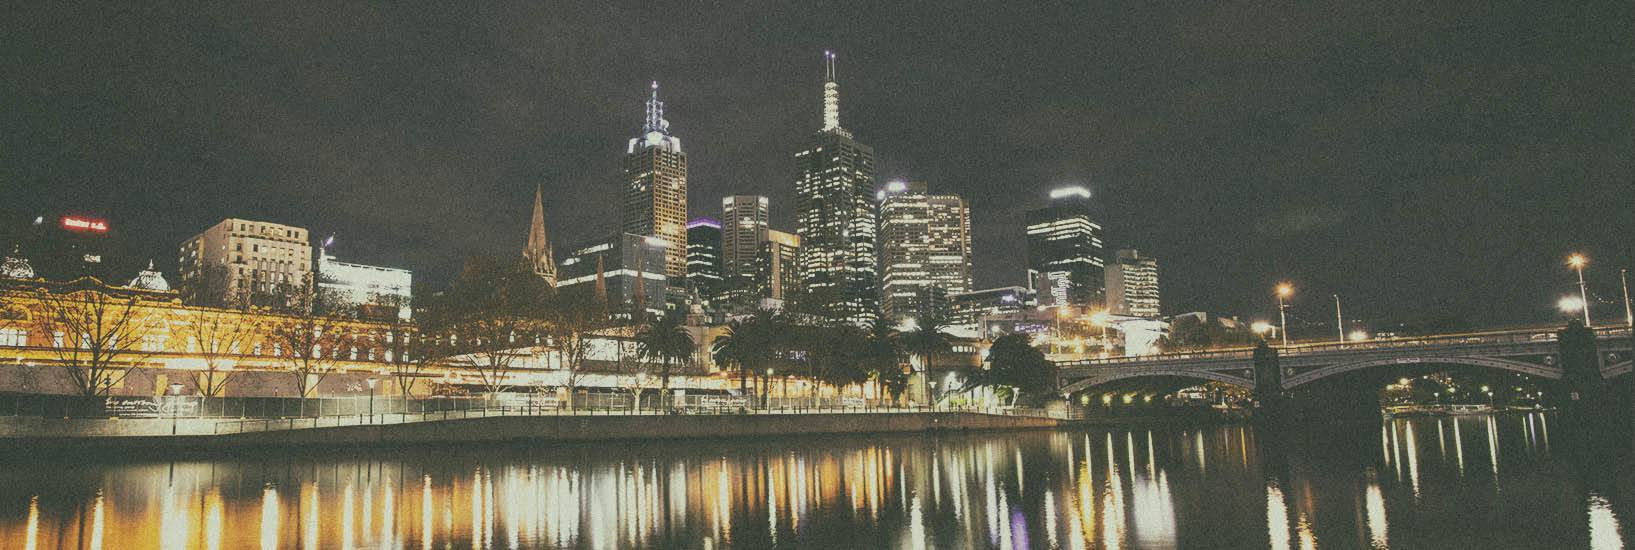
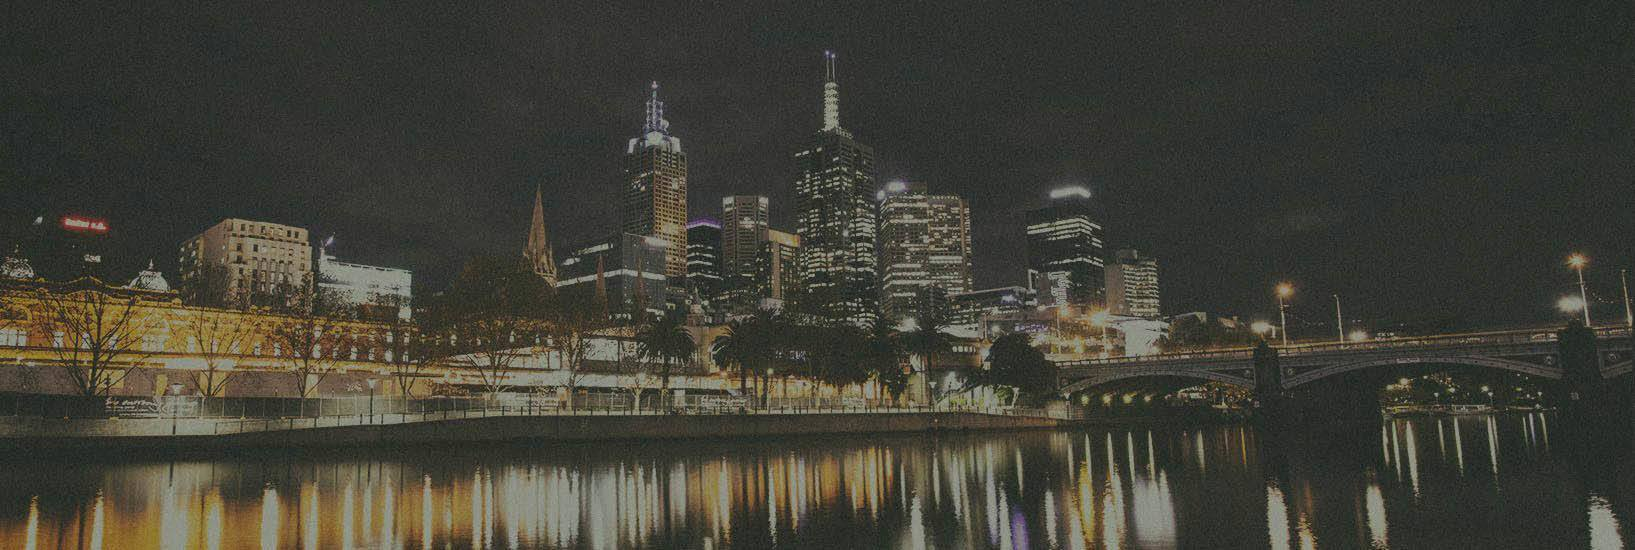
Fixed Contact Div

diff --git a/css/main.css b/css/main.css
@@ -208,7 +208,6 @@ body {
 	top: 0px;
 	width: 100%;
 	position:fixed;
-	background-color: rgba(0,0,0,.3);
 }
 .accounts {
 	text-align: center;
@@ -271,92 +270,6 @@ section .accounts a.linkedin {
 	background-color: #FFF;
 	padding-bottom: 1em;
 }
-
-@media only screen and (min-width: 768px) {
-	.visitSiteMobile {
-		display: none;
-	}
-}
-
-@media only screen and (max-width: 768px) {
-	
-	.responsive-col-left h2 {
-		font-size: 1.4375em;
-		font-weight: normal;
-	}
-	.responsive-col-right {
-		padding-left: 0;
-		padding-top: 2em;
-		width: 90%;
-	}
-	.responsive-col-left {
-		padding-left: 0px;
-		width: 100%;
-	}
-	.responsive-col-left {
-		padding-left: 0px;
-	}
-	.visitSiteDesktop {
-		display: none;
-	}
-	.visitSiteMobile {
-		padding-top: 2em;
-		display: block;
-	}
-}
-
-@media only screen and (max-width: 1079px) {
-	.workContent {
-		width: 90%;
-	}
-	.responsive-col-left .responsive-col-right {
-		padding-left: 60px;
-	}
-	
-	.contactDetailsDesktop
-	{
-		display:none;	
-	}
-	
-	.contactFormDesktop
-	{
-		width: 100%;
-		padding:0;
-	}
-	#footer
-	{
-		display:none;	
-	}
-	.main
-	{
-		margin-bottom:0;	
-	}
-}
-/* eat up all the width when used on mobile 
-@media screen and (max-width: 800px) {
-	.responsive-col-left
-{
-	width: 100%;
-}
-
-.responsive-col-right
-{
-	width: 100%;
-}
-}
-
-/* To make the height adjust automatically on mobile view
-@media screen and (min-width: 800px) {
-	.responsive-col-left
-{
-	height: 50vh;
-}
-
-.responsive-col-right
-{
-	height: 50vh;
-}
-} */
 
 .visitSiteDesktop {
 	padding-top: .8em;
@@ -449,3 +362,85 @@ div.button {
 	border:none;
 	padding:0;
 }
+
+@media only screen and (min-width: 768px) {
+	.visitSiteMobile {
+		display: none;
+	}
+}
+
+@media only screen and (max-width: 768px) {
+	
+	.responsive-col-left h2 {
+		font-size: 1.4375em;
+		font-weight: normal;
+	}
+	.responsive-col-right {
+		padding-left: 0;
+		padding-top: 2em;
+		width: 90%;
+	}
+	.responsive-col-left {
+		padding-left: 0px;
+		width: 100%;
+	}
+	.responsive-col-left {
+		padding-left: 0px;
+	}
+	.visitSiteDesktop {
+		display: none;
+	}
+	.visitSiteMobile {
+		padding-top: 2em;
+		display: block;
+	}
+	
+	#footer form {
+		width: 100%;	
+	}
+}
+
+@media only screen and (max-width: 1079px) {
+	.workContent {
+		width: 90%;
+	}
+	.responsive-col-left .responsive-col-right {
+		padding-left: 60px;
+	}
+	
+	.contactDetailsDesktop
+	{
+		display:none;	
+	}
+	
+	.contactFormDesktop
+	{
+		width: 100%;
+		padding:0;
+	}
+}
+/* eat up all the width when used on mobile 
+@media screen and (max-width: 800px) {
+	.responsive-col-left
+{
+	width: 100%;
+}
+
+.responsive-col-right
+{
+	width: 100%;
+}
+}
+
+/* To make the height adjust automatically on mobile view
+@media screen and (min-width: 800px) {
+	.responsive-col-left
+{
+	height: 50vh;
+}
+
+.responsive-col-right
+{
+	height: 50vh;
+}
+} */

diff --git a/index.html b/index.html
@@ -24,18 +24,18 @@
 </head>
 
 <body>
-    <section class="intro" id="top">
+    <header class="intro" id="top">
         <!--<nav class="desktop" id="cl-effect-14" class="container cl-effect-14">-->
         <!-- Parallax Top -->
 
         <div class="harvinBlock fadeIn">
             <h2 class="harvinName">Harvin Chan</h2><span class="hero__snippet">Web Developer</span>
 
-            <div class="accounts">
-                <a class="linkedin" data-username="261245078" href="http://linkedin.com/in/harvinchan">LinkedIn</a>
+            <div class="accounts hi-icon-effect-2 hi-icon-effect-2a">
+                <a class="fa-linkedin" data-username="261245078" href="http://linkedin.com/in/harvinchan">LinkedIn</a>
             </div>
         </div>
-    </section>
+    </header>
 
     <nav class="bt-menu" id="bt-menu">
         <a class="bt-menu-trigger" href="#"><span>Menu</span></a> <!--<h1 class="logo">Harvin Chan</h1>-->
@@ -193,7 +193,7 @@
 
         
 		</div>
-        <section id="footer">
+        <section id="footer" style="display:none;">
         <div class="container">
         <div class="workContent contentContact">
                 <!--<div class="workColumn">-->
@@ -212,7 +212,8 @@
                 </div>
 
                 <div class="responsive-col-right contactFormDesktop">
-                    <form action="actions/email.php" method="POST">
+                <!--<form action="actions/email.php" method="POST">-->
+                    <form action="#" method="POST">
                         <p>
         
                             <label for="name">Name:</label>
@@ -259,6 +260,27 @@
             $('.fade').bxSlider({
                 
             });
+			
+			if($(window).width() > 640)
+	{
+
+		var headerHeight = $('header').height();
+
+		$(document).scroll(function() {
+			var pos = $(document).scrollTop();
+
+			$('#footer').css('display', ((pos > headerHeight) ? 'block' : 'none'));
+
+				var parallax = parseInt(pos * -0.3) + 'px';
+				var rgba		 = (pos / headerHeight) * 0.4;
+
+				$('.harvinBlock').css('margin-top', parallax);
+				$('header').css('background', 'rgba(0,0,0,' + rgba);
+
+			
+		});
+	
+	}
             
             
         });

diff --git a/css/style.css b/css/style.css
@@ -153,6 +153,39 @@ iframe {
 	top: 0%;
 	opacity: 1;
 }
+
+/* Effect 2 */
+.hi-icon-effect-2 .hi-icon {
+	color: #eea303;
+	box-shadow: 0 0 0 3px #fff;
+	-webkit-transition: color 0.3s;
+	-moz-transition: color 0.3s;
+	transition: color 0.3s;
+}
+
+.hi-icon-effect-2 .hi-icon:after {
+	top: -2px;
+	left: -2px;
+	padding: 2px;
+	z-index: -1;
+	background: #fff;
+	-webkit-transition: -webkit-transform 0.2s, opacity 0.2s;
+	-moz-transition: -moz-transform 0.2s, opacity 0.2s;
+	transition: transform 0.2s, opacity 0.2s;
+}
+
+/* Effect 2a */
+.hi-icon-effect-2a .hi-icon:hover {
+	color: #eea303;
+}
+
+.hi-icon-effect-2a .hi-icon:hover:after {
+	-webkit-transform: scale(0.85);
+	-moz-transform: scale(0.85);
+	-ms-transform: scale(0.85);
+	transform: scale(0.85);
+}
+
 nav a {
 	position: relative;
 	display: inline-block;

diff --git a/js/script.js b/js/script.js
@@ -5,3 +5,4 @@
     var photoSlider = new WallopSlider('.photo-slider');
 
 })();
+
